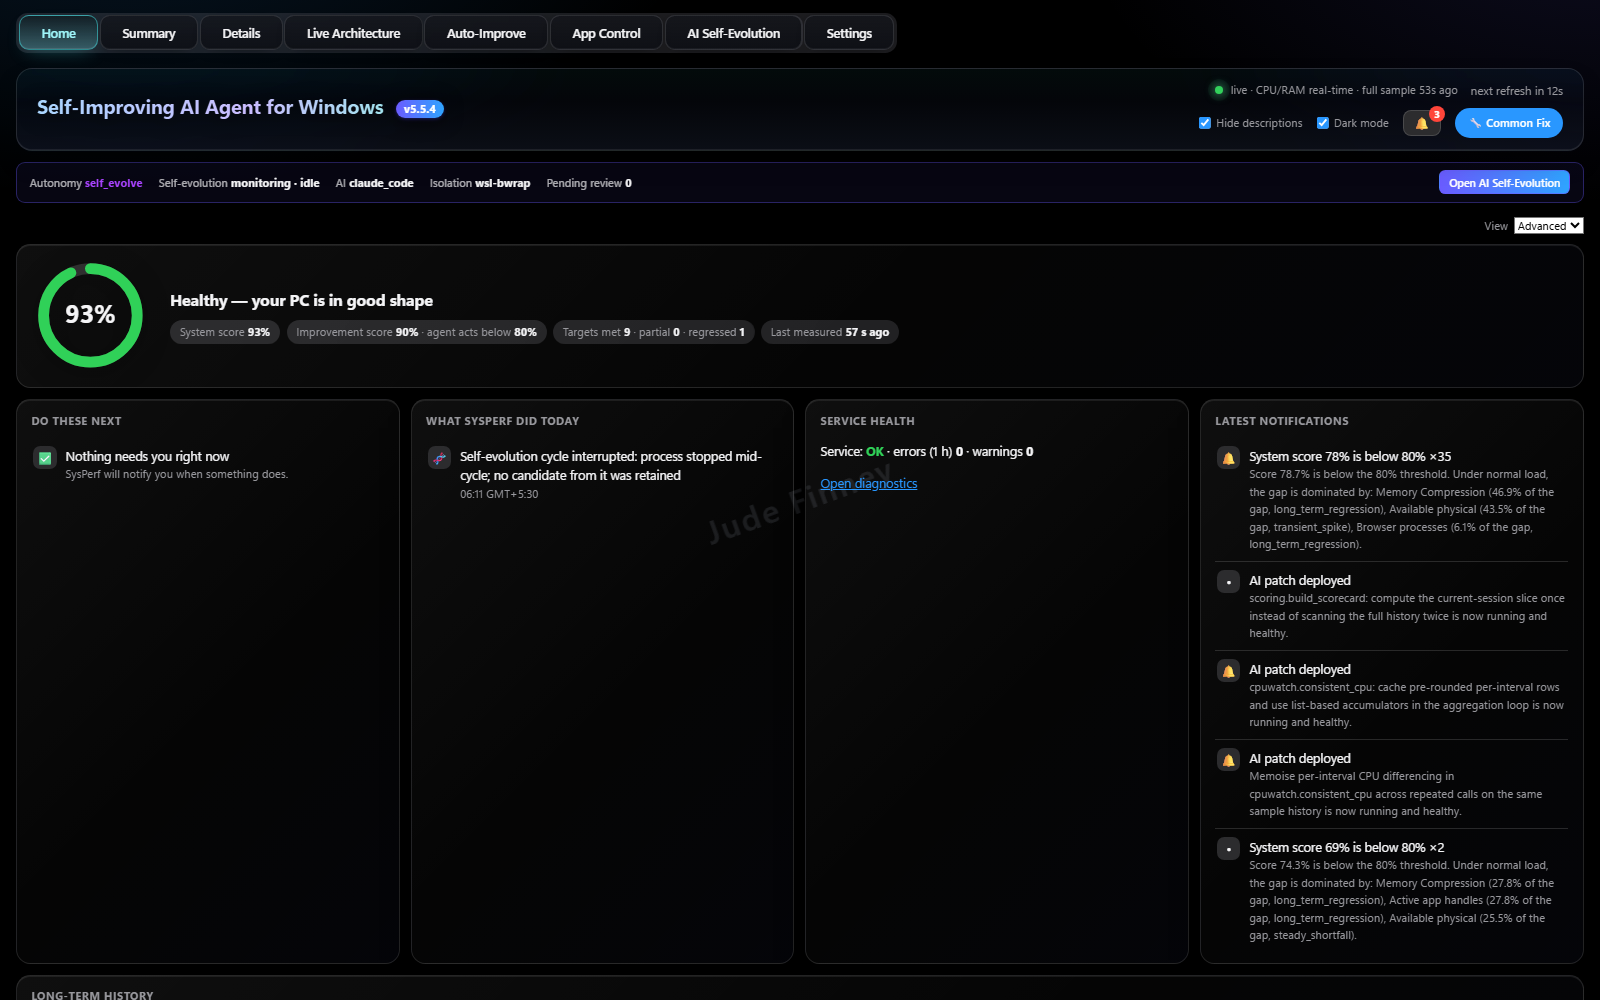
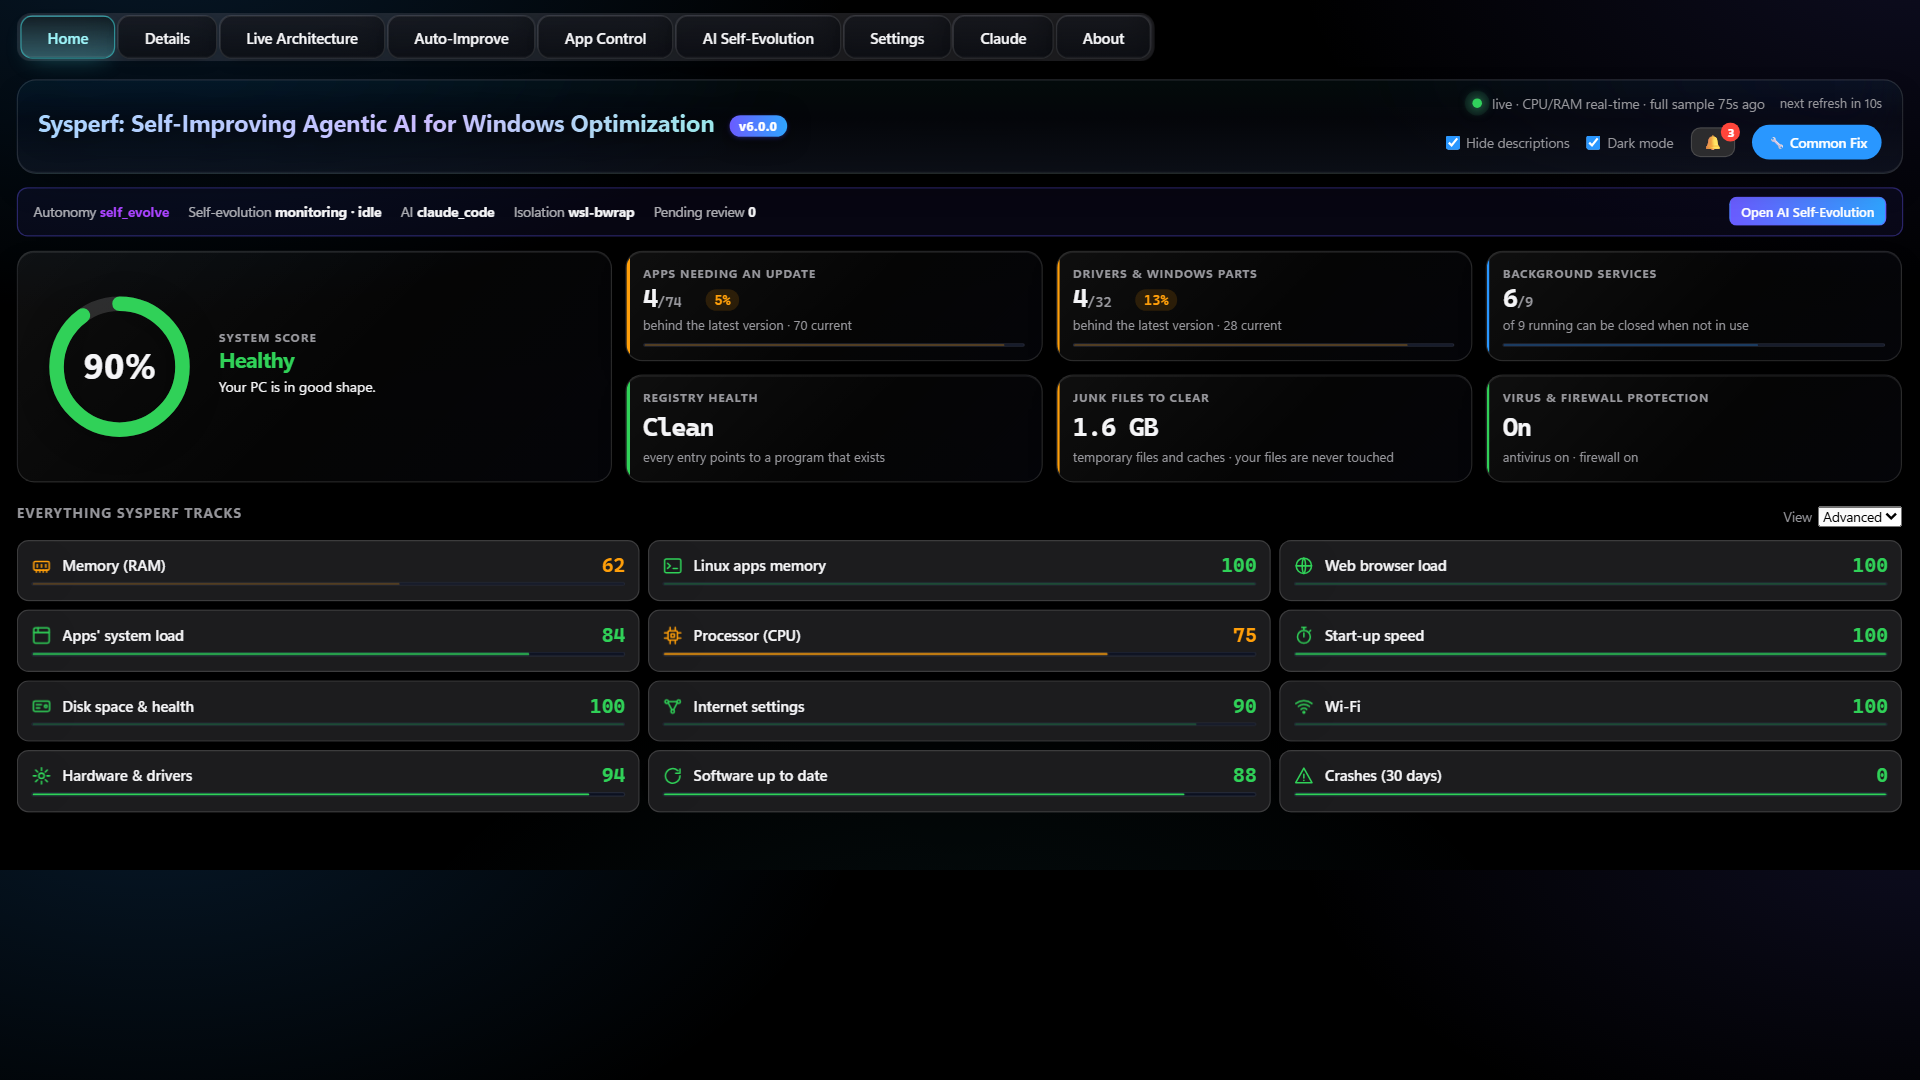
6.0: new name, nine tabs (Claude, About; Summary folded into Home), fresh screenshots

diff --git a/README.md b/README.md
@@ -1,66 +1,67 @@
-# SysPerf — System Performance Agent
+# Sysperf: Self-Improving Agentic AI for Windows Optimization
 
-**A self-improving performance dashboard for Windows 11.** SysPerf measures your PC, learns that machine's own
+**A self-improving performance agent for Windows 11.** SysPerf measures your PC, learns that machine's own
 baseline, scores progress against targets derived from its actual capacity, and tells you exactly what to change.
 With your consent it makes the safe changes itself, and every one can be undone.
 
 <a href="https://apps.microsoft.com/detail/9P558WJTTC0B?mode=direct"><img src="https://get.microsoft.com/images/en-us%20dark.svg" alt="Get SysPerf from the Microsoft Store" width="200"/></a>
 
-Free from the [Microsoft Store](https://apps.microsoft.com/detail/9P558WJTTC0B) (Windows 11).
+Free from the [Microsoft Store](https://apps.microsoft.com/detail/9P558WJTTC0B) (Windows 11). Current version: **6.0**.
 
-**The dashboard has eight tabs:** [Home](#1-home) · [Summary](#2-summary) · [Details](#3-details) ·
-[Live Architecture](#4-live-architecture) · [Auto-Improve](#5-auto-improve) · [App Control](#6-app-control) ·
-[AI Self-Evolution](#7-ai-self-evolution) · [Settings](#8-settings)
+**The dashboard has nine tabs:** [Home](#1-home) · [Details](#2-details) · [Live Architecture](#3-live-architecture) ·
+[Auto-Improve](#4-auto-improve) · [App Control](#5-app-control) · [AI Self-Evolution](#6-ai-self-evolution) ·
+[Settings](#7-settings) · [Claude](#8-claude) · [About](#9-about)
 
 Then every section of the Details tab: [Details — all 17 sections](#details--all-17-sections)
 
-Every tab shares the same header: the version, a live indicator with the time of the last full sample and the next
-refresh, a notifications bell, a **Common Fix** button, a dark-mode switch, and a status strip showing the autonomy
-level, the self-evolution state, the AI provider, the sandbox and how many changes are waiting for review.
+Every tab shares the same header: a title naming what the tab is for, the version, a live indicator with the time of
+the last full sample and the next refresh, a notifications bell, a **Common Fix** button, a dark-mode switch, and a
+status strip showing the autonomy level, the self-evolution state, the AI provider, the sandbox and how many changes
+are waiting for review.
+
+## What's new in 6.0
+- **Apps installed for all users update automatically.** Allow it once with one administrator prompt, and SysPerf
+  updates them after each scan with no further prompt.
+- **Components are always kept current:** Git for Windows, GitHub CLI, winget, PowerShell and the other tools, each
+  upgrade tested first and rolled back if it fails. A release winget does not offer yet simply waits.
+- **Stop a background service and it stays off,** also after a restart; Start brings it back.
+- **A new Claude tab** shows the tools Claude Code works with, live.
+- **Home now covers everything**, so the Summary tab is gone, and every tab is headed by its purpose.
 
 ---
 
 ## 1. Home
 ![Home](docs/screenshots/1-home-dark.png)
 
-Your PC's health at a glance.
-- **Health ring:** one overall score (for example *93% — Healthy*), with the system score, the improvement score,
-  targets met, partial or regressed, and when the PC was last measured.
-- **Do these next:** the few actions that matter right now, or *Nothing needs you right now*.
-- **What SysPerf did today:** every fix, scan and self-evolution cycle it ran, with the time.
-- **Service health:** whether SysPerf itself is running cleanly (errors and warnings in the last hour), with a link
-  to diagnostics.
-- **Latest notifications:** score drops with the cause behind them (for example *memory compression is 46.9% of the
-  gap*), and AI patches that were deployed and are running healthily.
-- **Long-term history** further down the page, plus a Beginner / Advanced view switch.
+Your PC's health in plain words, on one screen.
+- **System score ring:** one overall score (for example *90% — Healthy*) with a plain verdict.
+- **Findings from Details:** apps needing an update, drivers and Windows parts behind the latest version, background
+  services that can be closed when not in use, registry health, junk files to clear, and virus and firewall
+  protection. A finding not measured yet says *first scan pending*.
+- **Everything SysPerf tracks:** a 0–100 tile for each area in everyday words — **Memory (RAM), Linux apps memory,
+  Web browser load, Apps' system load, Processor (CPU), Start-up speed, Disk space & health, Internet settings,
+  Wi-Fi, Hardware & drivers, Software up to date** — plus **Crashes (30 days)**. Each tile opens the Details
+  scorecard behind it.
 
-## 2. Summary
-![Summary](docs/screenshots/2-summary-dark.png)
+## 2. Details
+![Details](docs/screenshots/2-details-dark.png)
 
-The system scorecard in one screen.
-- A **score out of 100** with counts of criteria on target, partial, below target and still measuring.
-- One bar and score for each area: **memory pressure, WSL 2, browser footprint, application handles, CPU and
-  processes, launch and boot times, storage, network optimisation, Wi-Fi connectivity, hardware and drivers, and
-  component currency** (how up to date your software is).
-- A **score stabilising** notice right after sign-in or resume, so the first busy minutes of a session don't count
-  against you.
-
-## 3. Details
-![Details](docs/screenshots/3-details-dark.png)
-
-Everything SysPerf measures, in 17 sections (each shown [at the end](#details--all-17-sections)): **Overview, Scorecard, Trends, Browser, WSL and kernel, Wi-Fi,
-Network, Hardware, Drivers, Components, Maintenance, Protection, Cleanup, Registry, Security, Services and tasks,
-and App updates.**
+Everything SysPerf measures, in 17 sections (each shown [at the end](#details--all-17-sections)): **Overview, Scorecard,
+Trends, Browser, WSL and kernel, Wi-Fi, Network, Hardware, Drivers, Components, Maintenance, Protection, Cleanup,
+Registry, Security, Services and tasks, and App updates.**
 - **Overview:** system score, room for improvement, criteria status and **memory pressure right now** (commit
   charge, physical RAM, available memory, compression).
 - **Key metrics** cards with sparklines, each showing the live value, the change against *your* baseline and the
-  target, for example active-app commit, memory compression, available physical memory, WSL memory, browser
-  processes and app handles.
+  target.
 - **Success-criteria scorecard:** baseline, live value, target, change, progress and status for every criterion,
   with improvements today and personal bests.
+- **Services:** stop a third-party service you are not using (it stays off, also after a restart) or start it
+  again. Security software, drivers, WSL, Hyper-V and SysPerf itself are never offered.
+- **App updates and Components:** updates for your apps, including those installed for all users, and the
+  command-line tools SysPerf relies on, each kept current automatically.
 
-## 4. Live Architecture
-![Live Architecture](docs/screenshots/4-architecture-dark.png)
+## 3. Live Architecture
+![Live Architecture](docs/screenshots/3-architecture-dark.png)
 
 A live map of how SysPerf works, with each part coloured by its health right now (healthy, degraded or offline).
 - **Sense and serve:** the Windows 11 host and sampler, the collector, scoring and snapshots, the local API (bound
@@ -71,50 +72,54 @@ A live map of how SysPerf works, with each part coloured by its health right now
   cause → fix → verify → learn), the action policy, code self-evolution, and the audit and quality gates.
 - Real numbers on every card, such as samples stored, the last sweep time, criteria met and workers alive.
 
-## 5. Auto-Improve
-![Auto-Improve](docs/screenshots/5-auto-dark.png)
+## 4. Auto-Improve
+![Auto-Improve](docs/screenshots/4-auto-dark.png)
 
-The agent that keeps your PC on target.
+Automatic speed-ups for your PC, each one measured before and after, with undo.
 - **Status cards:** health score against its target, mode (*Auto* or recommend-only), next scan, long-term trend,
   current usage load, and whether unattended fixes are safe right now (it avoids your peak hours).
 - **Scan & analyse now** or **Scan, RCA & fix now** buttons.
 - **Recommendations** with the evidence behind each one, then each fix with its **risk, how to undo it and the
   effect measured on your PC**.
-- Sections for strategy performance (win rate per strategy, learning activity), launch times, strategies and
-  knowledge, action items, root cause, evolution, tests, the last cycle, learnings, CPU-heavy apps and trends.
 
-## 6. App Control
-![App Control](docs/screenshots/6-appctl-dark.png)
+## 5. App Control
+![App Control](docs/screenshots/5-appctl-dark.png)
 
 Take back memory and CPU from apps you aren't using.
 - Live totals for **CPU, WSL memory, OneDrive and the Explorer watchdog** (which restarts Explorer if it hangs).
 - **Applications using the most CPU**, each with its memory, typical CPU and peak, and a **Stop** button.
-- **Quit tray apps when closed:** apps such as chat or music players that keep running in the tray after you close
-  them. For each one, choose **Allow, Never, Ask or Remove**, and set how long it may sit in the tray before it's
-  closed. It shows how much memory was freed in the last 24 hours, and suggests other background apps holding RAM.
+- **Quit tray apps when closed:** for each one, choose **Allow, Never, Ask or Remove**, and set how long it may sit
+  in the tray before it's closed.
 
-## 7. AI Self-Evolution
-![AI Self-Evolution](docs/screenshots/7-evo-dark.png)
+## 6. AI Self-Evolution
+![AI Self-Evolution](docs/screenshots/6-evo-dark.png)
 
-SysPerf improves its own code, safely. **Off by default** and uses your own AI provider key.
-- A **readiness check** (for example *6/6 requirements ready*): autonomy level, evolution switched on, approved
-  repository, AI provider, isolation sandbox and an intact audit chain.
-- Counts of **candidates, retained, pending review, applied and rejected** changes.
+SysPerf improves its own code, safely. **Off by default** and uses your own AI provider.
+- A **readiness check**: autonomy level, evolution switched on, approved repository, AI provider, isolation sandbox
+  and an intact audit chain.
 - Each proposed improvement is **built and tested in a sandbox and benchmarked**. Winners are deployed, verified on
   the running service and **rolled back automatically** if SysPerf isn't healthy afterwards.
-- **Engine telemetry:** last and next run, AI calls, tokens used today, estimated cost and the daily limit. Every
-  figure is a recorded measurement.
+- Tool upgrades (Git for Windows, GitHub CLI, winget, PowerShell, Claude Code) are tested the same way.
 
-## 8. Settings
-![Settings](docs/screenshots/8-settings-dark.png)
+## 7. Settings
+![Settings](docs/screenshots/7-settings-dark.png)
 
-Everything is adjustable, with a short explanation beside each option.
-- **General:** sampling interval, the score that triggers auto-improve, scan interval, whether SysPerf may run
-  fixes at all, how long raw samples are kept, and whether the dashboard opens at start-up.
+Everything is adjustable, with a short explanation beside each option, validated before anything is saved.
 - **Autonomy:** *off*, *observe* (recommend only), *safe_auto* (run enabled low-risk actions) or *self_evolve*.
-- **AI self-evolution:** on or off, how often and how many times a day it runs, and whether winning changes wait for
-  your review or are applied automatically.
+- **Goals, scan timing, privacy** and **AI self-evolution** limits.
 - **Save, reset to defaults, export, import**, and **send a test notification**.
+
+## 8. Claude
+![Claude](docs/screenshots/8-claude-dark.png)
+
+Claude in your PC: Claude Code at the centre, what SysPerf uses it for (such as self-evolution), and the tools it
+works with — GitHub, the Microsoft Store, winget, PowerShell 7, Git for Windows and more — each with a status
+measured live on this PC.
+
+## 9. About
+![About](docs/screenshots/9-about-dark.png)
+
+The version, what SysPerf does, privacy, the licence and how to get support (buildsbeyondai@gmail.com).
 
 ## Details — all 17 sections
 The Details tab has a sub-tab for every area SysPerf measures. Each one is shown below in order.
